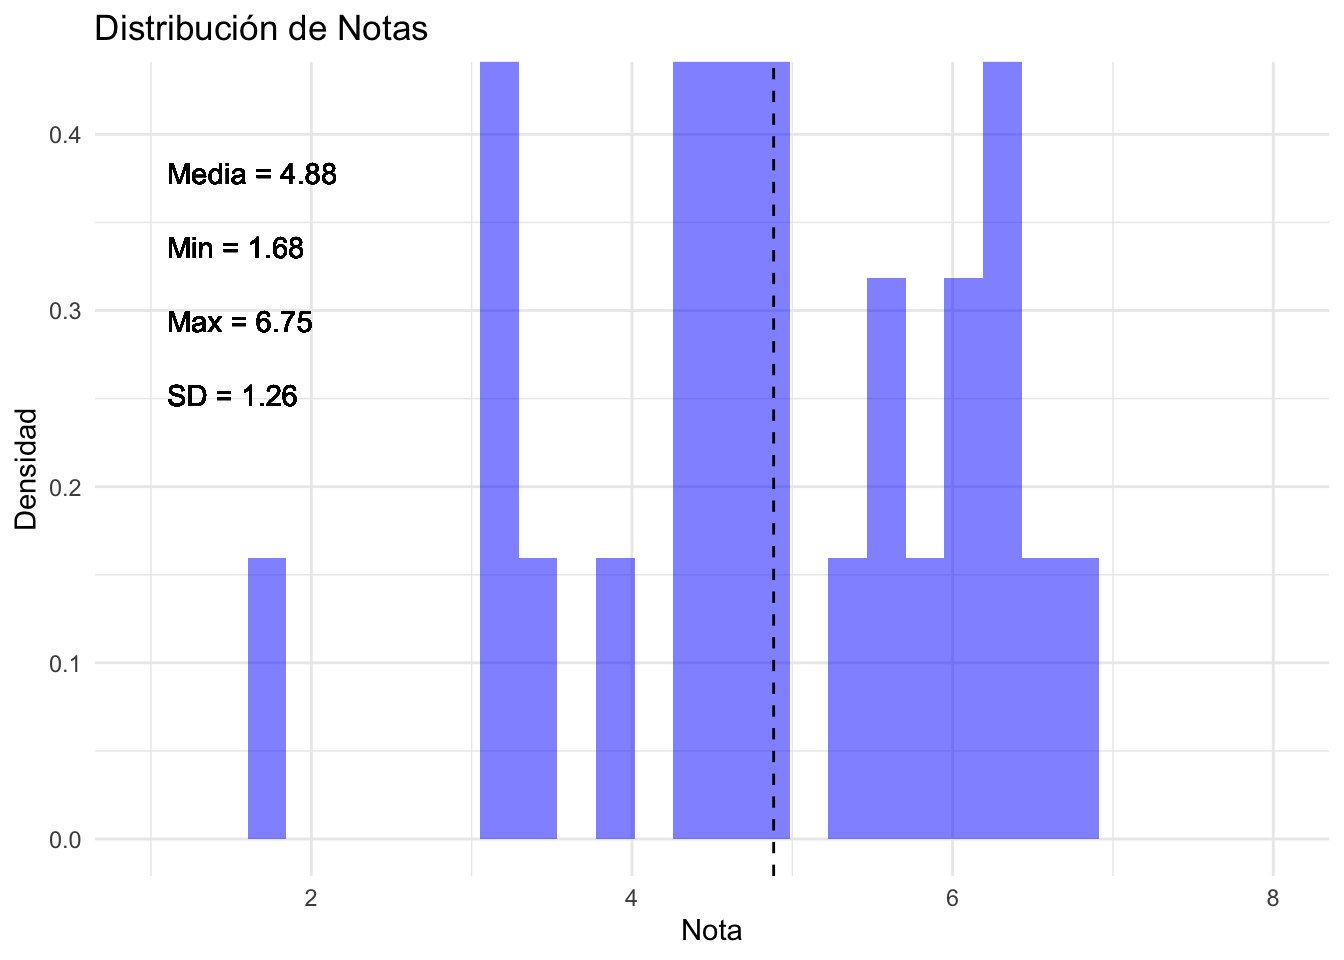
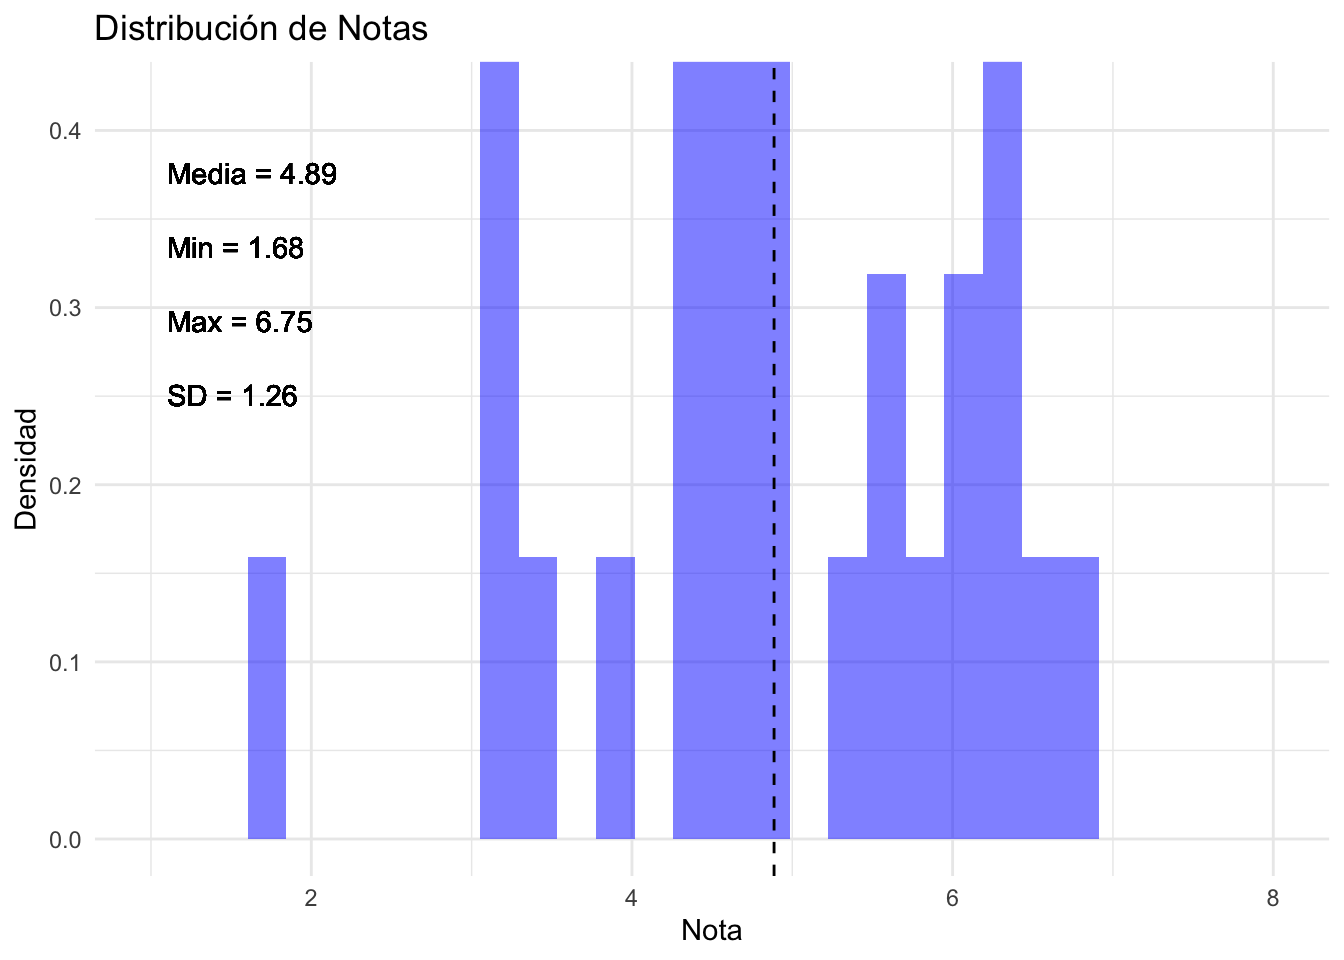
Update

diff --git a/exams/notas_examen.html b/exams/notas_examen.html
@@ -225,7 +225,7 @@ ul.task-list li input[type="checkbox"] {
 <td style="text-align: right;">NA</td>
 <td style="text-align: right;">NA</td>
 <td style="text-align: right;">5.58</td>
-<td style="text-align: right;">0.69</td>
+<td style="text-align: right;">0.65</td>
 </tr>
 <tr class="odd">
 <td style="text-align: left;">21543296-3</td>
@@ -377,12 +377,12 @@ ul.task-list li input[type="checkbox"] {
 <tr class="even">
 <td style="text-align: left;">21445742-3</td>
 <td style="text-align: right;">2.0</td>
-<td style="text-align: right;">3.0</td>
+<td style="text-align: right;">4.0</td>
 <td style="text-align: right;">7.0</td>
 <td style="text-align: right;">7.0</td>
 <td style="text-align: right;">4.0</td>
 <td style="text-align: right;">7.0</td>
-<td style="text-align: right;">6.5</td>
+<td style="text-align: right;">6.8</td>
 <td style="text-align: right;">NA</td>
 <td style="text-align: right;">6.5</td>
 <td style="text-align: right;">7.0</td>
@@ -392,8 +392,8 @@ ul.task-list li input[type="checkbox"] {
 <td style="text-align: right;">NA</td>
 <td style="text-align: right;">NA</td>
 <td style="text-align: right;">NA</td>
-<td style="text-align: right;">5.52</td>
-<td style="text-align: right;">0.65</td>
+<td style="text-align: right;">5.59</td>
+<td style="text-align: right;">0.69</td>
 </tr>
 <tr class="odd">
 <td style="text-align: left;">21331548-K</td>

diff --git a/exams/notas_final.html b/exams/notas_final.html
@@ -254,7 +254,7 @@ Para evitar casos en que diferencias muy pequeñas produzcan resultados despropo
 <td style="text-align: left;">21445742-3</td>
 <td style="text-align: right;">6.7</td>
 <td style="text-align: right;">6.3</td>
-<td style="text-align: right;">5.5</td>
+<td style="text-align: right;">5.6</td>
 <td style="text-align: right;">6.2</td>
 <td style="text-align: right;">0.81</td>
 </tr>
